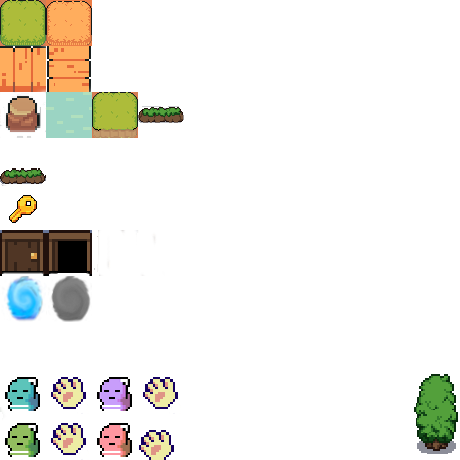
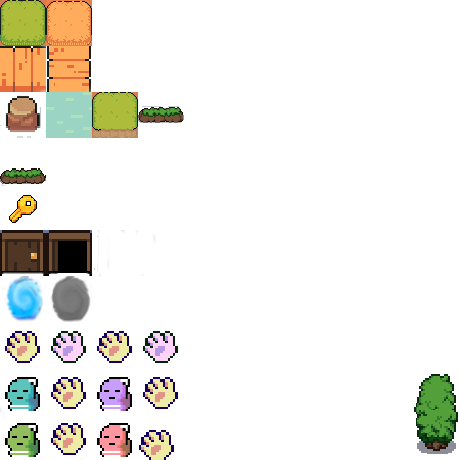
feat: 공격 모션 추가 및 맵 상태 관리 수정

Changed region(s): [[0.213, 0.7, 0.3957, 0.7913], [0.0, 0.7, 0.1826, 0.7913]]

diff --git a/src/components/Map/index.js b/src/components/Map/index.js
@@ -1,6 +1,7 @@
 import React, { useEffect, useRef, useState } from "react";
 import PropTypes from "prop-types";
 import styled from "styled-components";
+import cloneDeep from "lodash/cloneDeep";
 
 import { sleep } from "../../utils/sleep";
 import {
@@ -32,6 +33,7 @@ function Map({
     CLOSED_DOOR,
     OPEN_DOOR,
     PORTAL,
+    PAW,
     GREEN_MONSTER,
     BLUE_MONSTER,
     CAT_SPRITE_FRAMES,
@@ -54,7 +56,7 @@ function Map({
   mapAsset.src = "/assets/image/map_asset.png";
 
   useEffect(() => {
-    setNewMapInfo(mapInfo);
+    setNewMapInfo(cloneDeep(mapInfo));
     mapAsset.addEventListener(
       "load",
       () => {
@@ -387,6 +389,7 @@ function Map({
 
   const attack = async () => {
     const forwardTileType = getForwardTileType(character);
+    const copyMapInfo = { ...newMapInfo };
     let moveDirection = character.direction;
 
     const { forwardCoordinateX, forwardCoordinateY } = getForwardCoordinate(
@@ -399,7 +402,7 @@ function Map({
       y: forwardCoordinateY,
       direction: character.direction,
     };
-
+    const nextElement = nextCharacter.y * 10 + nextCharacter.x;
     if (forwardTileType.includes("Monster")) {
       let monsterColor;
       if (forwardTileType === "greenMonster") {
@@ -427,11 +430,33 @@ function Map({
         assetCoordinateX: mapInfo.defaultField,
         assetCoordinateY: 0,
       });
-      const monsterPosition = nextCharacter.y * 10 + nextCharacter.x;
-      const copyMapInfo = { ...newMapInfo };
-      copyMapInfo.elements[monsterPosition] = -1;
+
+      copyMapInfo.elements[nextElement] = -1;
 
       setNewMapInfo(copyMapInfo);
+    } else {
+      const catPaw = Math.floor(PAW / 10);
+      for (let i = 0; i < CAT_SPRITE_FRAMES; i++) {
+        drawField({
+          image: mapAsset,
+          mapCoordinateX: nextCharacter.x,
+          mapCoordinateY: nextCharacter.y,
+          assetCoordinateX: i,
+          assetCoordinateY: catPaw,
+        });
+
+        await sleep(CAT_DROWN_FRAME_TIME);
+      }
+      const { x: assetCoordinateX, y: assetCoordinateY } = getAssetCoordinate(
+        copyMapInfo.elements[nextElement],
+      );
+      drawField({
+        image: mapAsset,
+        mapCoordinateX: nextCharacter.x,
+        mapCoordinateY: nextCharacter.y,
+        assetCoordinateX: assetCoordinateX,
+        assetCoordinateY: assetCoordinateY,
+      });
     }
   };
 

diff --git a/src/config/constants.js b/src/config/constants.js
@@ -39,6 +39,7 @@ export const ASSET = {
   CLOSED_DOOR: 50,
   OPEN_DOOR: 51,
   PORTAL: 60,
+  PAW: 70,
   BLUE_MONSTER: 80,
   GREEN_MONSTER: 90,
   CAT_SPRITE_FRAMES: 4,
